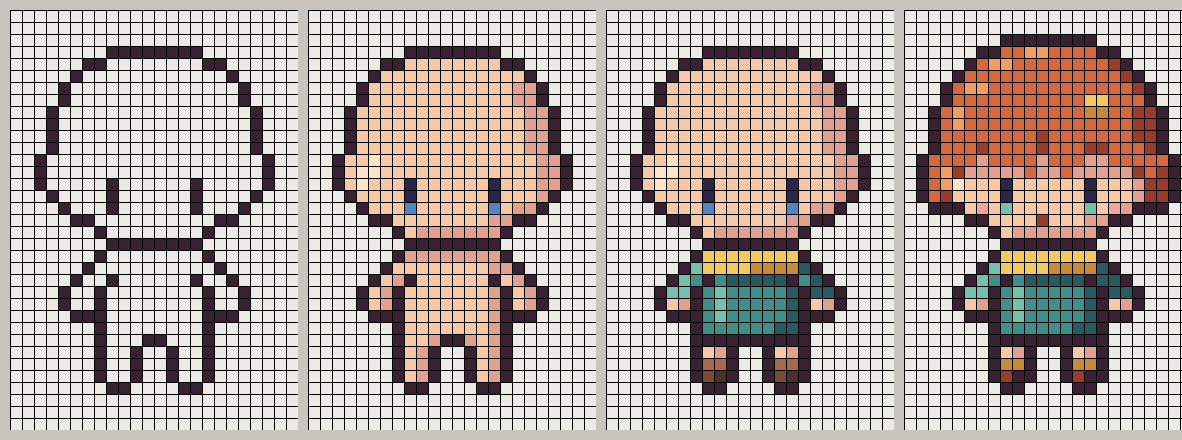
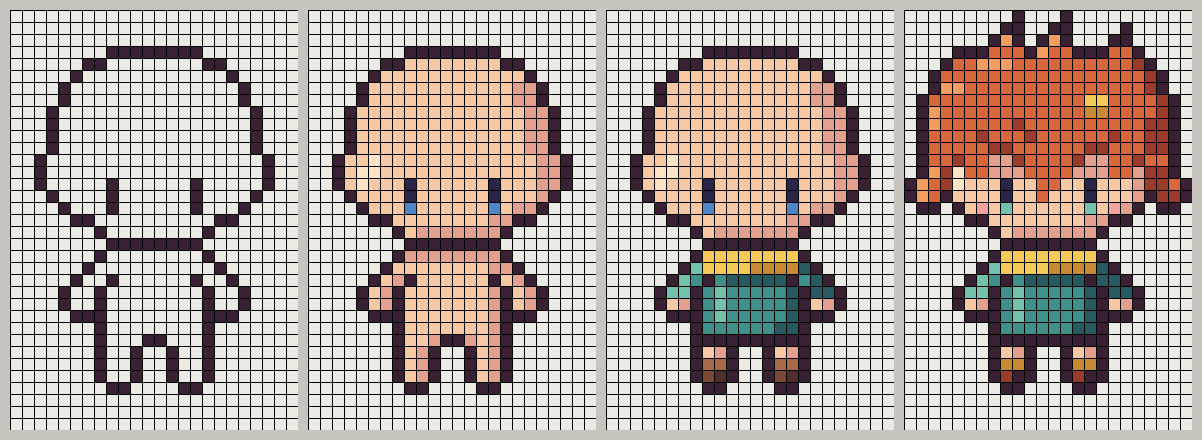
Test 13 : coupe de cheveux anime, bouche retirée
Claude-Session: https://claude.ai/code/session_013wkJTCTwukCLdUSFsReJoa

diff --git a/methode_dessin/test13_chibi_template/NOTES.md b/methode_dessin/test13_chibi_template/NOTES.md
@@ -28,3 +28,13 @@
   au lieu de déborder d'1 px ; seuls l'ourlet et les cheveux passent par-dessus le trait.
 - Mains de 2 px de large : les manches longues ne laissent qu'une rangée de main.
 - Jambes de 2 px : une rangée de peau, puis revers et botte.
+
+## Retouche après retour (v2)
+- **Bouche retirée** (`c05`) : le pixel brun sous les yeux se lisait comme un nez.
+- **Coupe anime** (`c06`, `c06b`) : trois pointes sur le dessus, toutes penchées vers la
+  droite (mèches balayées) ; frange en trois mèches avec une longue pointe centrale qui
+  descend entre les yeux ; mèches de côté évasées vers l'extérieur.
+- **Piège vu** : des pointes symétriques aux deux coins du crâne se lisent comme des
+  oreilles de chat. Les pencher dans le même sens.
+- **Piège vu** : une pointe d'1 px de large devient tout trait au contour ; il faut une base
+  de 3 px sur 3 rangées pour garder 1 px de couleur dedans.
